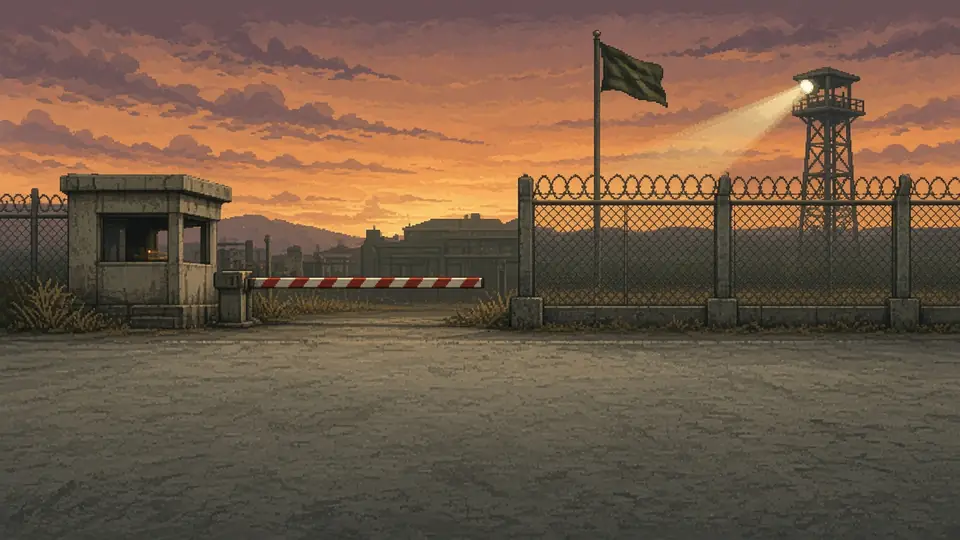
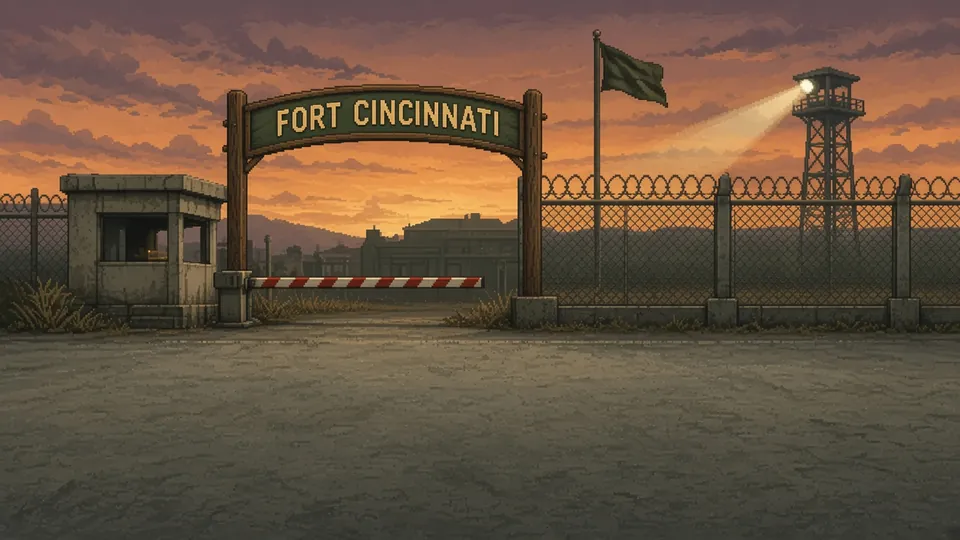
Painted-in sign plates (gate, motor pool, home, zoo exit, diner); drop code sign landmarks

Changed region(s): [[0.2188, 0.1481, 1.0, 0.5926], [0.0, 0.3556, 0.0625, 0.3852], [0.4688, 0.5037, 0.5, 0.5333]]

diff --git a/js/bgscreens.js b/js/bgscreens.js
@@ -28,7 +28,7 @@ export const SCREENS = {
       { name: 'Lion House', plate: 'zoo-lion', top: rgb(228, 196, 232), bot: rgb(238, 224, 236), lm: [['bench', 236]], lights: [], },
       { name: 'Primate World', plate: 'zoo-primate', top: rgb(190, 184, 232), bot: rgb(214, 214, 240), stars: 0.35, lm: [], lights: [] },
       { name: 'Night Path', plate: 'zoo-reptile', lift: 0.08, top: rgb(120, 128, 196), bot: rgb(158, 168, 214), stars: 0.9, fog: 0.22, lm: [['lamp', 36, '#ffd890']], lights: [] },
-      { name: 'Zoo Exit', plate: 'zoo-exit', lift: 0.09, top: rgb(112, 124, 190), bot: rgb(176, 186, 224), stars: 1, fog: 0.12, warm: [255, 40, 60, 0.04], lm: [['ptext', 160, 45, 'ZOO EXIT', 'plaque'], ['cone', 150], ['cone', 168]], lights: [[48, 48, 22, [255, 205, 130], 1], [271, 48, 22, [255, 205, 130], 1]], siren: 1 },
+      { name: 'Zoo Exit', plate: 'zoo-exit', lift: 0.09, top: rgb(112, 124, 190), bot: rgb(176, 186, 224), stars: 1, fog: 0.12, warm: [255, 40, 60, 0.04], lm: [['cone', 150], ['cone', 168]], lights: [[48, 48, 22, [255, 205, 130], 1], [271, 48, 22, [255, 205, 130], 1]], siren: 1 },
     ],
   },
   street: {
@@ -37,7 +37,7 @@ export const SCREENS = {
       { name: 'Back Alley', plate: 'city-alley', top: ID, bot: ID, rain: 0.5, lm: [['dumpster', 40], ['hydrant', 210], ['pipe', 270]], lights: [] },
       { name: 'Vine Plaza', plate: 'city-plaza', top: rgb(205, 222, 255), bot: rgb(225, 235, 255), rain: 0.4, lm: [['lamp', 40, '#9fd0ff'], ['planter', 130], ['bench', 200], ['lamp', 300, '#9fd0ff']], lights: [[40, 70, 34, [140, 200, 255], 1], [300, 70, 34, [140, 200, 255], 1]] },
       { name: 'Storefront Row', plate: 'city-stores', top: rgb(255, 214, 250), bot: rgb(255, 232, 250), rain: 0.3, lm: [['hydrant', 24]], lights: [] },
-      { name: 'Diner Corner', plate: 'city-diner', top: rgb(255, 224, 190), bot: rgb(255, 236, 214), warm: [255, 150, 40, 0.06], rain: 0.2, lm: [['hydrant', 300], ['ptext', 133, 28.5, 'DINER', 'neon']], lights: [[80, 84, 40, [255, 200, 110], 1]] },
+      { name: 'Diner Corner', plate: 'city-diner', top: rgb(255, 224, 190), bot: rgb(255, 236, 214), warm: [255, 150, 40, 0.06], rain: 0.2, lm: [['hydrant', 300]], lights: [[80, 84, 40, [255, 200, 110], 1]] },
       { name: 'Bridge Approach', plate: 'city-bridge', top: rgb(180, 204, 240), bot: rgb(206, 224, 244), fog: 0.28, rain: 0.35, lm: [['barrier', 250], ['cone', 200]], lights: [] },
       { name: 'Under the Bridge', plate: 'city-underbridge', lift: 0.09, top: rgb(140, 158, 206), bot: rgb(186, 200, 226), fog: 0.38, rain: 0.2, lm: [['girders', 0], ['dumpster', 220], ['cone', 120]], lights: [[160, 40, 46, [120, 170, 255], 1]] },
       { name: 'Precinct Barricade', plate: 'city-barricade', top: rgb(210, 190, 220), bot: rgb(226, 214, 232), rain: 0.25, lm: [['cone', 200]], lights: [], siren: 1 },
@@ -59,8 +59,8 @@ export const SCREENS = {
   base: {
     tiles: [0, 1, 2, 3, 0, 1, 2, 3, 0, 1, 2],
     screens: [
-      { name: 'Main Gate', plate: 'base-gate', top: ID, bot: ID, lm: [['sign', 130, 'FORT CINCINNATI', '#2a3a1a', '#e8f0b0'], ['sandbags', 230, 4]], lights: [], beams: 0 },
-      { name: 'Motor Pool', plate: 'base-motorpool', top: rgb(255, 214, 196), bot: rgb(255, 226, 210), lm: [['sign', 262, 'MOTOR POOL', '#3a3a20', '#ffe6a0'], ['cone', 40]], lights: [], beams: 0.4 },
+      { name: 'Main Gate', plate: 'base-gate', top: ID, bot: ID, lm: [['sandbags', 230, 4]], lights: [], beams: 0 },
+      { name: 'Motor Pool', plate: 'base-motorpool', top: rgb(255, 214, 196), bot: rgb(255, 226, 210), lm: [['cone', 40]], lights: [], beams: 0.4 },
       { name: 'Barracks', plate: 'base-barracks', top: rgb(238, 190, 180), bot: rgb(246, 214, 204), lm: [], lights: [[70, 90, 24, [255, 200, 110], 1]], beams: 0.6, stars: 0.2 },
       { name: 'Fuel Depot', plate: 'base-fuel', top: rgb(210, 160, 170), bot: rgb(226, 196, 196), lm: [['drums', 140, 5]], lights: [], beams: 0.8, stars: 0.4 },
       { name: 'Airfield', plate: 'base-airfield', lift: 0.13, top: rgb(160, 130, 170), bot: rgb(196, 176, 196), stars: 0.55, lm: [['sandbags', 230, 3]], lights: [], beams: 0.9 },
@@ -80,7 +80,7 @@ export const SCREENS = {
       { name: 'Glow Cave', plate: 'jungle-cave', top: rgb(110, 140, 170), bot: rgb(160, 186, 196), fog: 0.25, motes: 0.7, lm: [['rocks', 150]], lights: [[31, 109, 20, [140, 220, 255], 1], [63, 98, 20, [200, 150, 255], 1], [257, 99, 20, [200, 150, 255], 1], [288, 109, 20, [140, 220, 255], 1]], flies: 1 },
       { name: 'Waterfall Mist', plate: 'jungle-waterfall', lift: 0.08, top: rgb(190, 225, 235), bot: rgb(215, 238, 240), fog: 0.22, lm: [['rocks', 300]], lights: [] },
       { name: 'Temple Approach', plate: 'jungle-temple', top: rgb(246, 226, 160), bot: rgb(250, 238, 200), warm: [255, 200, 60, 0.06], motes: 0.6, lm: [], lights: [[160, 60, 50, [255, 210, 110], 1]] },
-      { name: 'Home Clearing', plate: 'jungle-clearing', top: rgb(255, 238, 190), bot: rgb(255, 246, 214), warm: [255, 210, 90, 0.09], motes: 0.8, lm: [['fern', 20], ['fern', 300], ['sign', 150, 'HOME', '#4a3a10', '#ffe890']], lights: [[160, 50, 60, [255, 230, 130], 1]] },
+      { name: 'Home Clearing', plate: 'jungle-clearing', top: rgb(255, 238, 190), bot: rgb(255, 246, 214), warm: [255, 210, 90, 0.09], motes: 0.8, lm: [['fern', 20], ['fern', 300]], lights: [[160, 50, 60, [255, 230, 130], 1]] },
     ],
   },
 };
